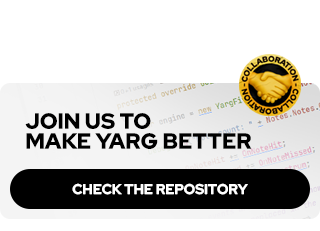
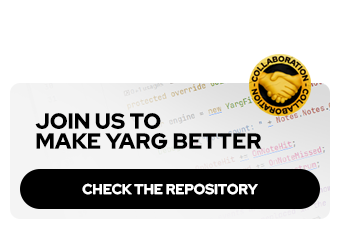
Added padding to cards and changed order

diff --git a/profile/README.md b/profile/README.md
@@ -1,13 +1,13 @@
 [![Banner](https://github.com/YARC-Official/.github/blob/main/profile/banner.png)](https://github.com/YARC-Official/)
 
 <div align="center">
-	<a href="https://github.com/YARC-Official/YARC-Launcher/releases/">
-		<img width="30%" align="center" src="https://github.com/YARC-Official/.github/blob/main/profile/download.png" />
-	</a>
 	<a href="https://open.spotify.com/playlist/3MvZpGaXBUszF2Oh3HOvRr?si=49f526a053d743db">
-		<img width="30%" align="center" src="https://github.com/YARC-Official/.github/blob/main/profile/setlist.png" />
+		<img width="32%" align="center" src="https://github.com/YARC-Official/.github/blob/main/profile/setlist.png" />
+	</a>
+	<a href="https://github.com/YARC-Official/YARC-Launcher/releases/">
+		<img width="32%" align="center" src="https://github.com/YARC-Official/.github/blob/main/profile/download.png" />
 	</a>
 	<a href="https://github.com/YARC-Official/YARG">
-		<img width="30%" align="center" src="https://github.com/YARC-Official/.github/blob/main/profile/contribute.png" />
+		<img width="32%" align="center" src="https://github.com/YARC-Official/.github/blob/main/profile/contribute.png" />
 	</a>
 </div>
